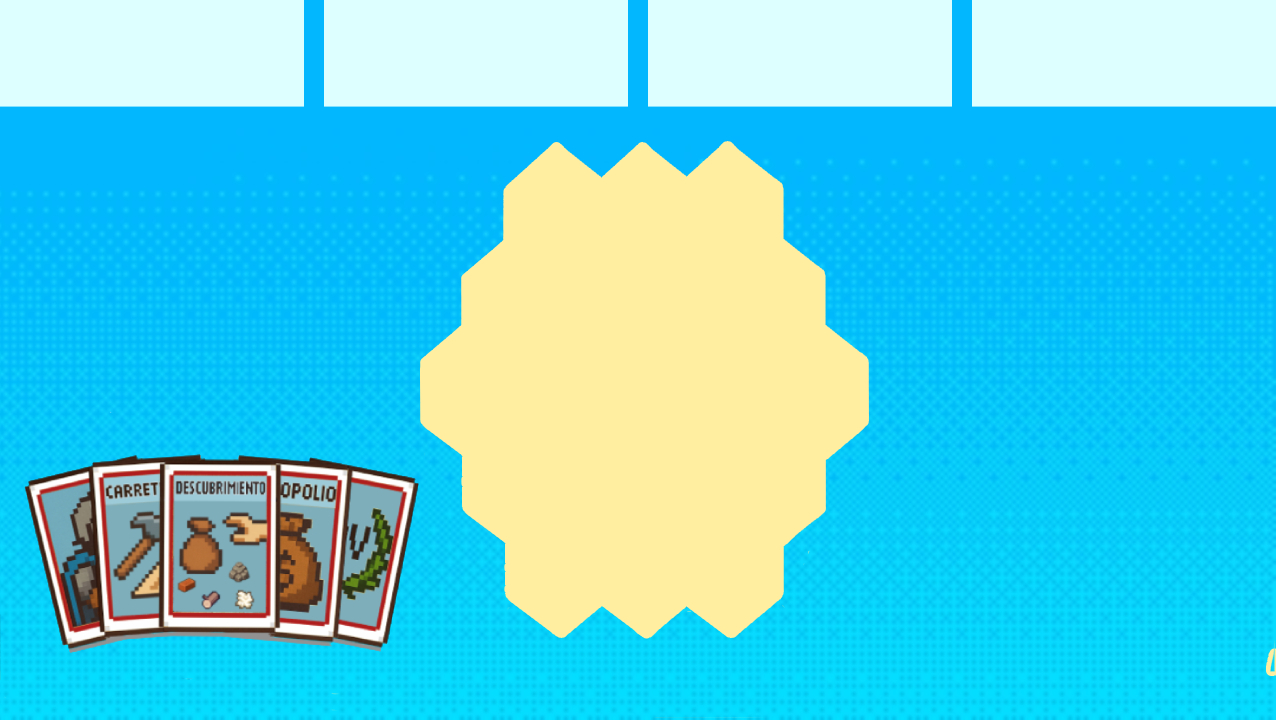
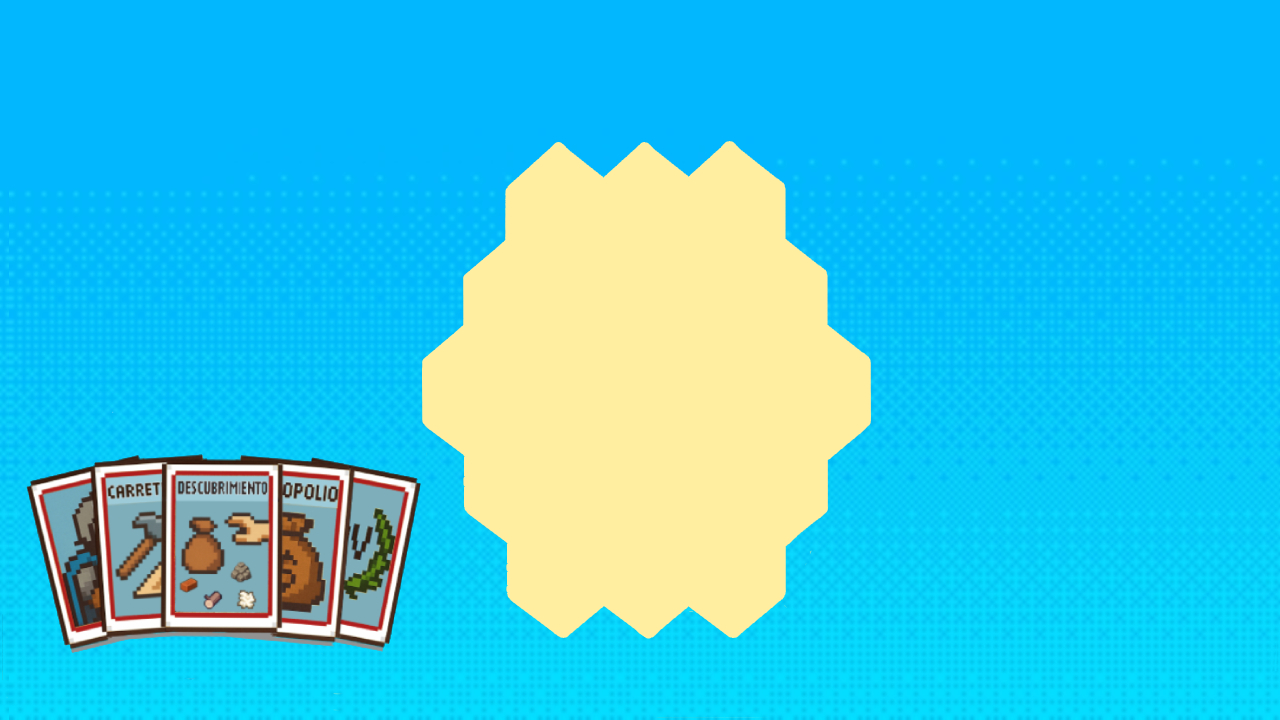
Continuamos con la interfaz

Changed region(s): [[0.0, 0.0, 1.0, 0.1528], [0.0, 0.6417, 0.3362, 0.9167], [0.9781, 0.8861, 1.0, 0.9472]]

diff --git a/src/main/resources/styles/styles.css b/src/main/resources/styles/styles.css
@@ -149,20 +149,34 @@
     -fx-opacity: 0.6;
 }
 
+.info-jugador {
+    -fx-background-color: #deffff;
+    -fx-background-radius: 5px;
+}
+
 .nombre-jugador {
     -fx-font-size: 20px;
     -fx-text-fill: #1c146a;
+    -fx-font-weight: bold;
     -fx-font-family: "Minecraft";
 }
 
 .pv-jugador {
-    -fx-font-size: 16px;
+    -fx-font-size: 18px;
     -fx-text-fill: #1c146a;
     -fx-font-family: "Minecraft";
 }
 
+.titulo-recursos-jugador {
+    -fx-font-size: 18px;
+    -fx-text-fill: #1c146a;
+    -fx-font-weight: bold;
+    -fx-underline: true;
+    -fx-font-family: "Minecraft";
+}
+
 .recursos-jugador {
-    -fx-font-size: 14px;
+    -fx-font-size: 16px;
     -fx-text-fill: #1c146a;
     -fx-font-family: "Minecraft";
 }

diff --git a/src/main/java/edu/fiuba/algo3/vistas/componentes/InfoJugador.java b/src/main/java/edu/fiuba/algo3/vistas/componentes/InfoJugador.java
@@ -3,6 +3,7 @@ package edu.fiuba.algo3.vistas.componentes;
 import edu.fiuba.algo3.modelo.jugador.Jugador;
 import javafx.geometry.Insets;
 import javafx.scene.control.Label;
+import javafx.scene.layout.HBox;
 import javafx.scene.layout.VBox;
 
 import java.util.Map;
@@ -16,27 +17,44 @@ public class InfoJugador extends VBox {
     public InfoJugador(Jugador jugador) {
         this.jugador = jugador;
 
-        this.setSpacing(5);
-        this.setPadding(new Insets(10));
+        this.setPadding(new Insets(0, 20, 10, 20));
+        this.getStyleClass().add("info-jugador");
 
         nombreLabel = new Label(jugador.getNombre());
         puntosLabel = new Label("PV: " + jugador.getPuntosVictoria());
+        Label recursosTituloLabel = new Label("Recursos:");
         recursosLabel = new Label(formatearRecursos());
 
         nombreLabel.getStyleClass().add("nombre-jugador");
         puntosLabel.getStyleClass().add("pv-jugador");
+        recursosTituloLabel.getStyleClass().add("titulo-recursos-jugador");
         recursosLabel.getStyleClass().add("recursos-jugador");
 
-        this.getChildren().addAll(nombreLabel, puntosLabel, recursosLabel);
+        HBox filaNombreYPV = new HBox();
+        filaNombreYPV.setSpacing(60);
+        filaNombreYPV.getChildren().addAll(nombreLabel, puntosLabel);
+
+        this.getChildren().addAll(filaNombreYPV, recursosTituloLabel, recursosLabel);
     }
 
     private String formatearRecursos() {
         Map<String, Integer> recursos = jugador.getRecursosInventario();
+        String resultado = "";
+        int contador = 0;
 
-        return recursos.entrySet().stream()
-                .map(entry -> entry.getKey() + ": " + entry.getValue())
-                .reduce((a, b) -> a + " | " + b)
-                .orElse("");
+        for (String nombre : recursos.keySet()) {
+            int cantidad = recursos.get(nombre);
+            resultado += nombre + ": " + cantidad;
+            contador++;
+
+            if (contador % 3 == 0) {
+                resultado += "\n";
+            } else if (contador < recursos.size()) {
+                resultado += ", ";
+            }
+        }
+
+        return resultado;
     }
 
     public void actualizar() {

diff --git a/src/main/java/edu/fiuba/algo3/vistas/VistaJuegoGeneral.java b/src/main/java/edu/fiuba/algo3/vistas/VistaJuegoGeneral.java
@@ -17,11 +17,11 @@ public class VistaJuegoGeneral extends BorderPane {
         this.setBackground(FondoPantalla.crearFondo("/images/backgrounds/fondo.jpg"));
 
         HBox barraJugadores = new HBox(20);
-        barraJugadores.setPadding(new Insets(20, 20, 0, 20));
         barraJugadores.setAlignment(Pos.CENTER);
 
         for (Jugador jugador : juego.getJugadores()) {
             InfoJugador info = new InfoJugador(jugador);
+            HBox.setMargin(info, new Insets(0, 10, 0, 10));
             barraJugadores.getChildren().add(info);
         }
 

diff --git a/src/main/java/edu/fiuba/algo3/controllers/ConfirmarJugadoresControlador.java b/src/main/java/edu/fiuba/algo3/controllers/ConfirmarJugadoresControlador.java
@@ -43,8 +43,8 @@ public class ConfirmarJugadoresControlador implements EventHandler<ActionEvent> 
                 mostrarError("Todos los jugadores deben tener nombre.");
                 return;
             }
-            if (nombre.length() > 15) {
-                mostrarError("Cada nombre puede máximo 15 caracteres.");
+            if (nombre.length() > 10) {
+                mostrarError("Cada nombre puede máximo 10 caracteres.");
                 return;
             }
 

diff --git a/src/main/java/edu/fiuba/algo3/controllers/TableroControlador.java b/src/main/java/edu/fiuba/algo3/controllers/TableroControlador.java
@@ -24,7 +24,7 @@ public class TableroControlador {
 
         VBox tableroVista = new VBox(-38);
         tableroVista.setAlignment(Pos.CENTER);
-        tableroVista.setPadding(new Insets(15, 80, 0, 5));
+        tableroVista.setPadding(new Insets(25, 80, 0, 5));
 
         int indiceHexagonos = 0;
         for (int filaHexagonos = 0; filaHexagonos < hexagonosPorFila.length; filaHexagonos++) {
